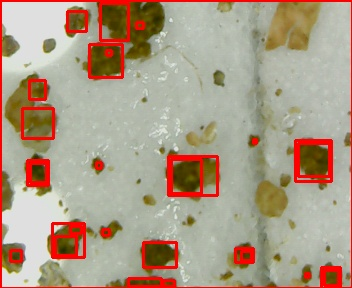
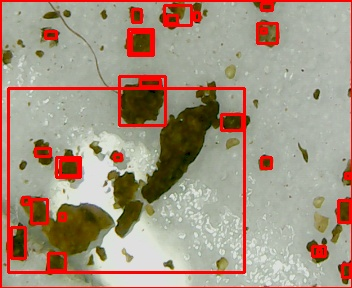
Final visualization and report

diff --git a/templates/report.html b/templates/report.html
@@ -17,40 +17,40 @@
       else if (ph >= 5.0 && ph <= 5.5)
         return ['blueberries', 'irish potato', 'sweet potato']
       else if (ph <= 6.5)
-        return ['Barley','Bluegrass','Corn','Cotton','Fescue','Grain Sorghum','Peanuts','Rice	 ','Soybeans','Watermelon','Wheat'];
-      else if (ph<=7)
+        return ['Barley', 'Bluegrass', 'Corn', 'Cotton', 'Fescue', 'Grain Sorghum', 'Peanuts', 'Rice	 ', 'Soybeans', 'Watermelon', 'Wheat'];
+      else if (ph <= 7)
         return ['Alfalfa', 'Clovers', 'Beet']
     }
     // SOIL ACIDITY	NITROGEN	PHOSPHATE	POTASH	FERTILIZER WASTED
     // Efficiency
-    function getDetailsBypH(acidity){
-      if(acidity <= 4.5)
+    function getDetailsBypH(acidity) {
+      if (acidity <= 4.5)
         return [30, 23, 33, 71.34]
-      else if(acidity <= 5.0)
+      else if (acidity <= 5.0)
         return [53, 34, 52, 53.67]
-      else if(acidity <= 5.5)
-        return [77,	48,	77, 32.69]
-      else if(acidity <= 6.0)
-        return [89,	52,	100, 19.67]
-      else if(acidity <= 7)
-        return [100, 100, 100, 0]   
+      else if (acidity <= 5.5)
+        return [77, 48, 77, 32.69]
+      else if (acidity <= 6.0)
+        return [89, 52, 100, 19.67]
+      else if (acidity <= 7)
+        return [100, 100, 100, 0]
     }
 
     // Reduce alkalinity
     // SAND	SILT LOAM	CLAY
-    function getSulphurBySoilAndPH(soil, pH){
-      var sulAmount ={
+    function getSulphurBySoilAndPH(soil, ph) {
+      var sulAmount = {
         "sand": [2000, 1200, 500, 100],
         "silt loam": [2500, 1500, 800, 150],
         "clay": [3000, 2000, 1000, 300]
       }
-      if(ph>=8.5)
+      if (ph >= 8.5)
         return sulAmount[soil][0];
-      else if(ph>=8.0)
+      else if (ph >= 8.0)
         return sulAmount[soil][1];
-      else if(ph>=7.5) 
+      else if (ph >= 7.5)
         return sulAmount[soil][2];
-      else 
+      else
         return sulAmount[soil][3];
     }
 
@@ -60,48 +60,120 @@
     <hr>
     <div class="soilPhysicalValuesReport">
       <h3 class="text-secondary">pH value</h3>
-      <p>Your current pH value of soil is: {{averagePhValue}}</p>
+      <p>Your current pH value of soil is: 6.0</p>
       <p>
         From this the following inferences can be made: <br>
-        Crops can only tolerate a particular value of pH. According to your ph Value, we recommed the following crops for this seasion.
+        Crops can only tolerate a particular value of pH. According to your ph Value, we recommed the following crops
+        for this seasion.
         <ul id="phCrops"></ul>
       </p>
       <p>
-        The soil acidity plays a major part in defining the efficiency of fertiliers and waste of fertilizers. Accoring to<br>
-        your pH value of {{averagePhValue}}, the efficiency of different types of fertilizers are as follows:
+        The soil acidity plays a major part in defining the efficiency of fertiliers and waste of fertilizers. Accoring
+        to<br>
+        your pH value of 6.0, the efficiency of different types of fertilizers are as follows:
         <table id="efficiencyTable" class="table table-hover table-stripped"></table>
       </p>
       <p>
         Your soil type is: {{soilType}}
       </p>
+      <p><b>Checking the soil type and ph if is recommeded that you balance you ph using sulphur!</b></p>
+      <p>Based on your soil type, the recommeded amount of sulphur is <b><span class="text-info"
+            id="sulAmount"></span></b> pounds/ acre</p>
+    </div>
+
+    <h1>Soil Characteristics</h1>
+    <hr>
+    <div class="soilCharacteristics">
+      <h3>Soil under microscope</h3>
+      <div class="row">
+        <div class="col-6">
+          <img class="img-thumbnail" src="/static/uploads/upload.jpg">
+        </div>
+        <div class="col-6">
+          <img class="img-thumbnail" src="/static/uploads/detection.jpg">
+        </div>
+      </div>
+      <div class="col-12 mt-4">
+        <table class="table table-hover table-stripped">
+          <thead class="bg-dark text-white">
+            <tr>
+              <td>Granule size range</td>
+              <td>Size Range</td>
+            </tr>
+          </thead>
+          <tr>
+            <td>10mm - 20mm</td>
+            <td>20%</td>
+          </tr>
+          <tr>
+            <td>20mm - 40mm</td>
+            <td>40%</td>
+          </tr>
+          <tr>
+            <td>40mm - 60mm</td>
+            <td>30%</td>
+          </tr>
+          <tr>
+            <td>>60mm</td>
+            <td>10%</td>
+          </tr>
+        </table>
+      </div>
+    </div>
+
+    <h1>Soil Physical Quantities</h1>
+    <div class="row mt-4">
+      <table class="table table table-hover table-stripped sensorTable">
+        <tr>
+          <td>Temperature: </td>
+          <td id="temperatureValue">23</td>
+        </tr>
+        <tr>
+          <td>PH: </td>
+          <td id="phValue">6.0</td>
+        </tr>
+        <tr>
+          <td>Moisture: </td>
+          <td id="moistureValue">45%</td>
+        </tr>
+        <tr>
+          <td>Area Humidity: </td>
+          <td id="humidityValue">40%</td>
+        </tr>
+      </table>
     </div>
   </div>
 
   <script>
-    function populateCropsPh(phValue = 6.5){
+    function populateCropsPh(phValue = 6.5) {
       var list = document.getElementById('phCrops');
       items = '';
-      getCropsByPH(phValue).forEach((crop)=>{
-        items+='<li>'+crop+'</li>';
-      }); 
+      getCropsByPH(phValue).forEach((crop) => {
+        items += '<li>' + crop + '</li>';
+      });
       list.innerHTML = items;
     }
 
-    function populateEfficieny(phValue = 6.5){
+    function populateEfficieny(phValue = 6.5) {
       var table = document.getElementById('efficiencyTable');
-      var content = `<thead><tr>
+      var content = `<thead class="bg-dark text-light"><tr>
         <td>Nitrogen</td>
         <td>Phosphate</td>
         <td>Potash</td>
         <td>Fertilizer waste</td>
       </tr></thead>`;
       var elements = getDetailsBypH(phValue);
-      content+=`<td>${elements[0]}</td><td>${elements[1]}</td><td>${elements[2]}</td><td>${elements[3]}</td>`;
+      content += `<td>${elements[0]}</td><td>${elements[1]}</td><td>${elements[2]}</td><td>${elements[3]}</td>`;
       table.innerHTML = content;
+    }
+
+    function populateSulphur(phValue = 6.5) {
+      document.getElementById('sulAmount').innerText = getSulphurBySoilAndPH('clay', phValue);
     }
 
     populateCropsPh();
     populateEfficieny();
+    populateSulphur();
   </script>
 </body>
 

diff --git a/templates/microscope.html b/templates/microscope.html
@@ -34,15 +34,27 @@
             </tr>
           </thead>
           <tr>
-            <td>2mm - 4mm</td>
+            <td>10mm - 20mm</td>
+            <td>20%</td>
+          </tr>
+          <tr>
+            <td>20mm - 40mm</td>
             <td>40%</td>
+          </tr>
+          <tr>
+            <td>40mm - 60mm</td>
+            <td>30%</td>
+          </tr>
+          <tr>
+            <td>>60mm</td>
+            <td>10%</td>
           </tr>
         </table>
       </div>
-      
+
       <!-- Inference -->
       <div class="col-12 text-center">
-        <p class="inference"><b>Inference: </b>Since 40% of particles have size less than 4mm, the soil is suitable for this crop.</p>
+        <p class="inference"><b>Inference: </b>Since 40% of particles have size less than 4mm, the soil type is clay</p>
       </div>
     </div>
   </div>

diff --git a/static/js/tempGraph.js b/static/js/tempGraph.js
@@ -33,7 +33,7 @@ $(document).ready(function () {
         // generate an array of random data
         var data = [];
         for (i = -100; i <= 0; i += 1) {
-          data.push(Math.floor(Math.random() * 40 + 10));
+          data.push(Math.floor(Math.random() * 40 + 30));
         }
         return data;
       }())

diff --git a/templates/navbar.html b/templates/navbar.html
@@ -20,7 +20,7 @@
           <a class="nav-link" href="#">Timeline</a>
         </li>
         <li class="nav-item">
-          <a class="nav-link" href="#">Report</a>
+          <a class="nav-link" href="/report">Report</a>
         </li>
 
       </ul>

diff --git a/openCV/opencv.py b/openCV/opencv.py
@@ -1,0 +1,95 @@
+
+import numpy as np
+import cv2
+
+
+def edgedetect(channel):
+  # sobelX = cv2.Sobel(channel, cv2.CV_16S, 1, 0, ksize=1)
+  # sobelY = cv2.Sobel(channel, cv2.CV_16S, 0, 1, ksize=1)
+  # sobel = np.hypot(sobelX, sobelY)
+  sobel = channel
+  # Some values seem to go above 255. However RGB channels has to be within 0-255
+  sobel[sobel > 255] = 255
+  sobel[sobel < 25] = 0
+  return sobel
+
+def bigParticles(img):
+  blurred=img
+  blurred = cv2.medianBlur(blurred,25)
+  edgeImg = np.max(np.array([edgedetect(blurred[:, :, 0]), edgedetect(blurred[:, :, 1]), edgedetect(blurred[:, :, 2])]), axis=0)
+  kernel = np.ones((4, 4), np.uint8)
+  blurred=edgeImg
+  
+
+  # Open and close the image
+  # edgeImg = cv2.erode(edgeImg, kernel*2, iterations=1)
+  # edgeImg = cv2.morphologyEx(edgeImg, cv2.MORPH_OPEN, cv2.getStructuringElement(cv2.MORPH_ELLIPSE,(2,2)))
+  # edgeImg[edgeImg>0]=255
+
+  _, thresh = cv2.threshold(edgeImg, 120, 255, cv2.THRESH_BINARY) # Optimize this
+  contours, hierarchy = cv2.findContours(thresh, cv2.RETR_TREE, cv2.CHAIN_APPROX_SIMPLE)
+
+  try: hierarchy = hierarchy[0]
+  except: hierarchy = []
+
+  height, width, _ = img.shape
+  min_x, min_y = width, height
+  max_x = max_y = 0
+  particles = []
+
+  # computes the bounding box for the contour, and draws it on the frame,
+  for contour, hier in zip(contours, hierarchy):
+      (x,y,w,h) = cv2.boundingRect(contour)
+      min_x, max_x = min(x, min_x), max(x+w, max_x)
+      min_y, max_y = min(y, min_y), max(y+h, max_y)
+      # if w > 80 and h > 80:
+      cv2.rectangle(img, (x,y), (x+w,y+h), (0, 0, 255), 2)
+      particles.append((w, h))
+
+  for i in sorted(particles):
+    print(i)
+  
+
+
+def smallParticles(img):
+  kernel = np.ones((3, 3), np.uint8)
+  modified = img
+  modified = np.max(np.array([edgedetect(modified[:, :, 0]), edgedetect(modified[:, :, 1]), edgedetect(modified[:, :, 2])]), axis=0)
+  modified = cv2.dilate(modified,kernel*2,iterations = 2)
+  modified = cv2.morphologyEx(modified, cv2.MORPH_OPEN, kernel)
+  modified = cv2.erode(modified, cv2.getStructuringElement(cv2.MORPH_ELLIPSE, (1, 1)), iterations=2)
+  modified = cv2.medianBlur(modified,5)
+  # modified = cv2.dilate(modified,kernel/5)
+  _, thresh = cv2.threshold(modified, 100, 255, cv2.THRESH_BINARY) # Optimize this
+  contours, hierarchy = cv2.findContours(thresh, cv2.RETR_TREE, cv2.CHAIN_APPROX_SIMPLE)
+
+  try: hierarchy = hierarchy[0]
+  except: hierarchy = []
+
+  height, width, _ = img.shape
+  min_x, min_y = width, height
+  max_x = max_y = 0
+  particles = []
+
+  # computes the bounding box for the contour, and draws it on the frame,
+  for contour, hier in zip(contours, hierarchy):
+      (x,y,w,h) = cv2.boundingRect(contour)
+      min_x, max_x = min(x, min_x), max(x+w, max_x)
+      min_y, max_y = min(y, min_y), max(y+h, max_y)
+      if w < 40 and h < 40:
+        cv2.rectangle(img, (x,y), (x+w,y+h), (0, 0, 255), 2)
+        particles.append((w, h))
+
+  for i in sorted(particles):
+    print(i)
+  # cv2.imshow('orig', img)
+  # if cv2.waitKey(0) & 0xFF:
+  #   cv2.destroyAllWindows()
+
+img = cv2.imread('sample.jpg')
+bigParticles(img)
+smallParticles(img)
+# cv2.imshow('img', img)
+# if cv2.waitKey(0) & 0xFF:
+#   cv2.destroyAllWindows()
+cv2.imwrite("detection.jpg", img)

diff --git a/app.py b/app.py
@@ -30,11 +30,14 @@ def setDevice():
 def renderMicroscope():
 	return render_template("microscope.html")
 
+@app.route("/report")
+def renderReport():
+	return render_template("report.html")
 
 @app.route("/getSensor")
 def returnSensor():
 	values = {}
-	values['temperatureValue'] = randint(20, 50)
+	values['temperatureValue'] = randint(30, 40)
 	values['phValue'] = randint(3, 8)
 	values['moistureValue'] = randint(40, 80)
 	values['humidityValue'] = randint(50, 100)
